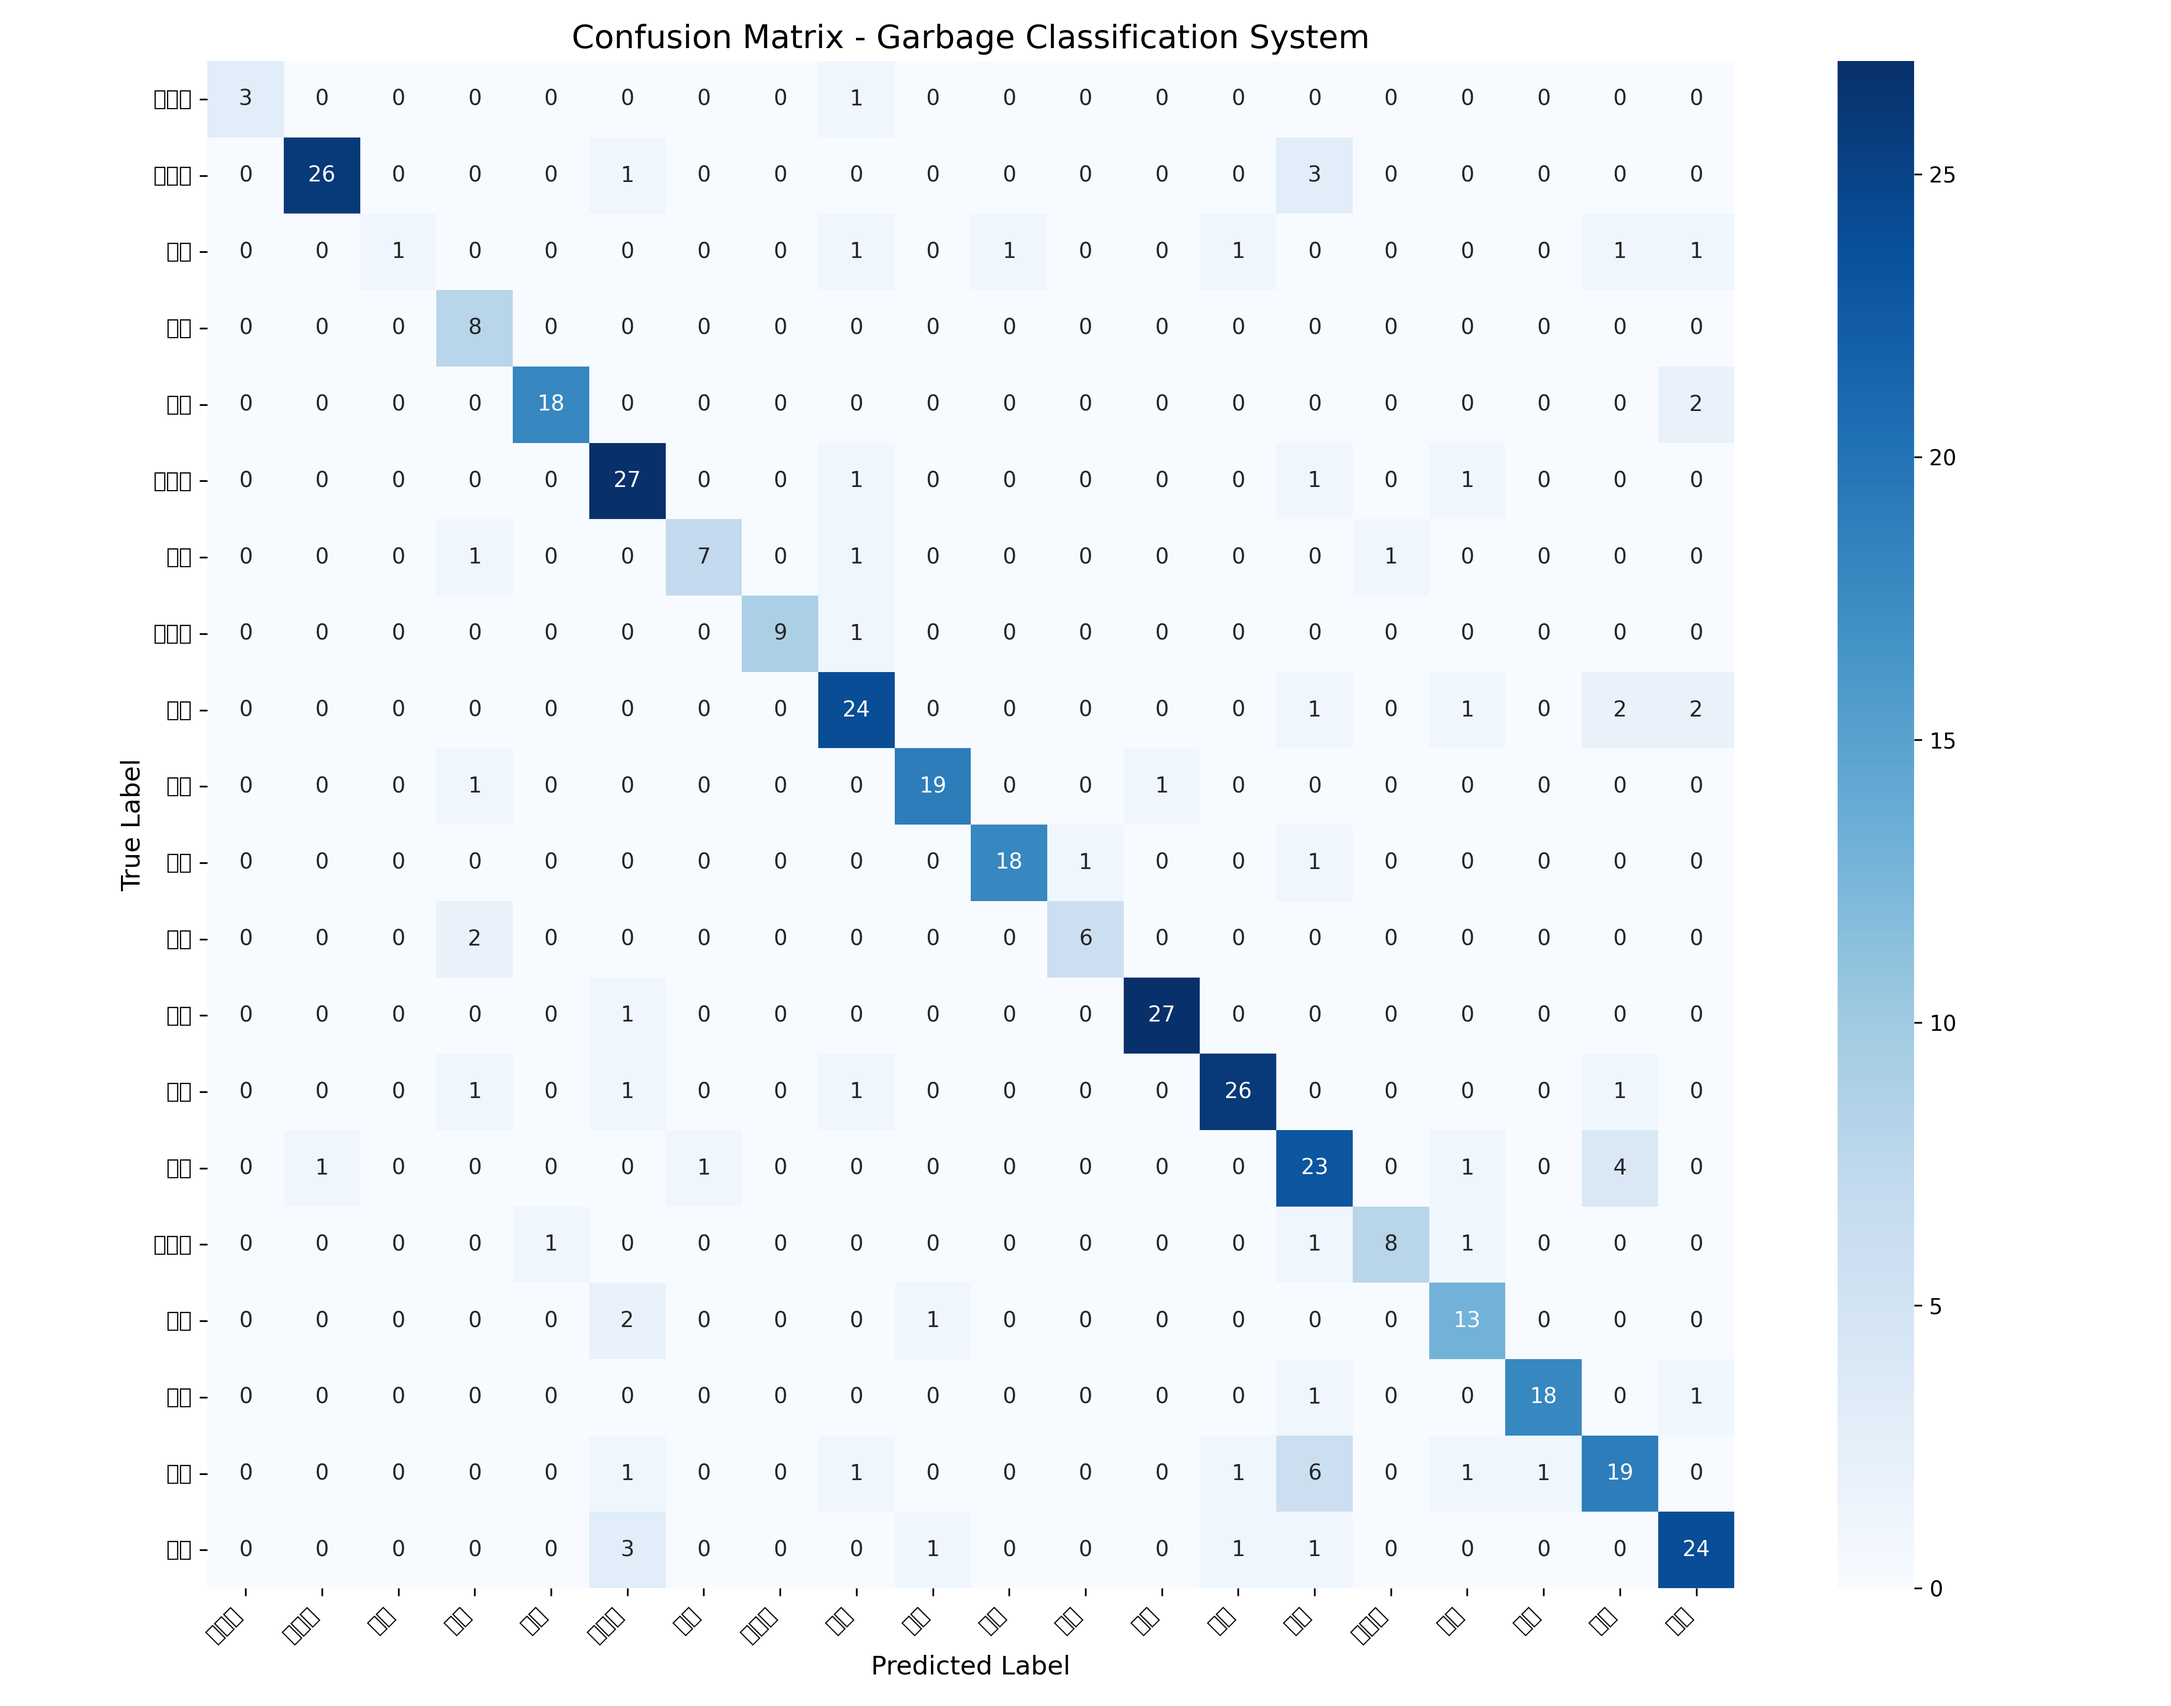
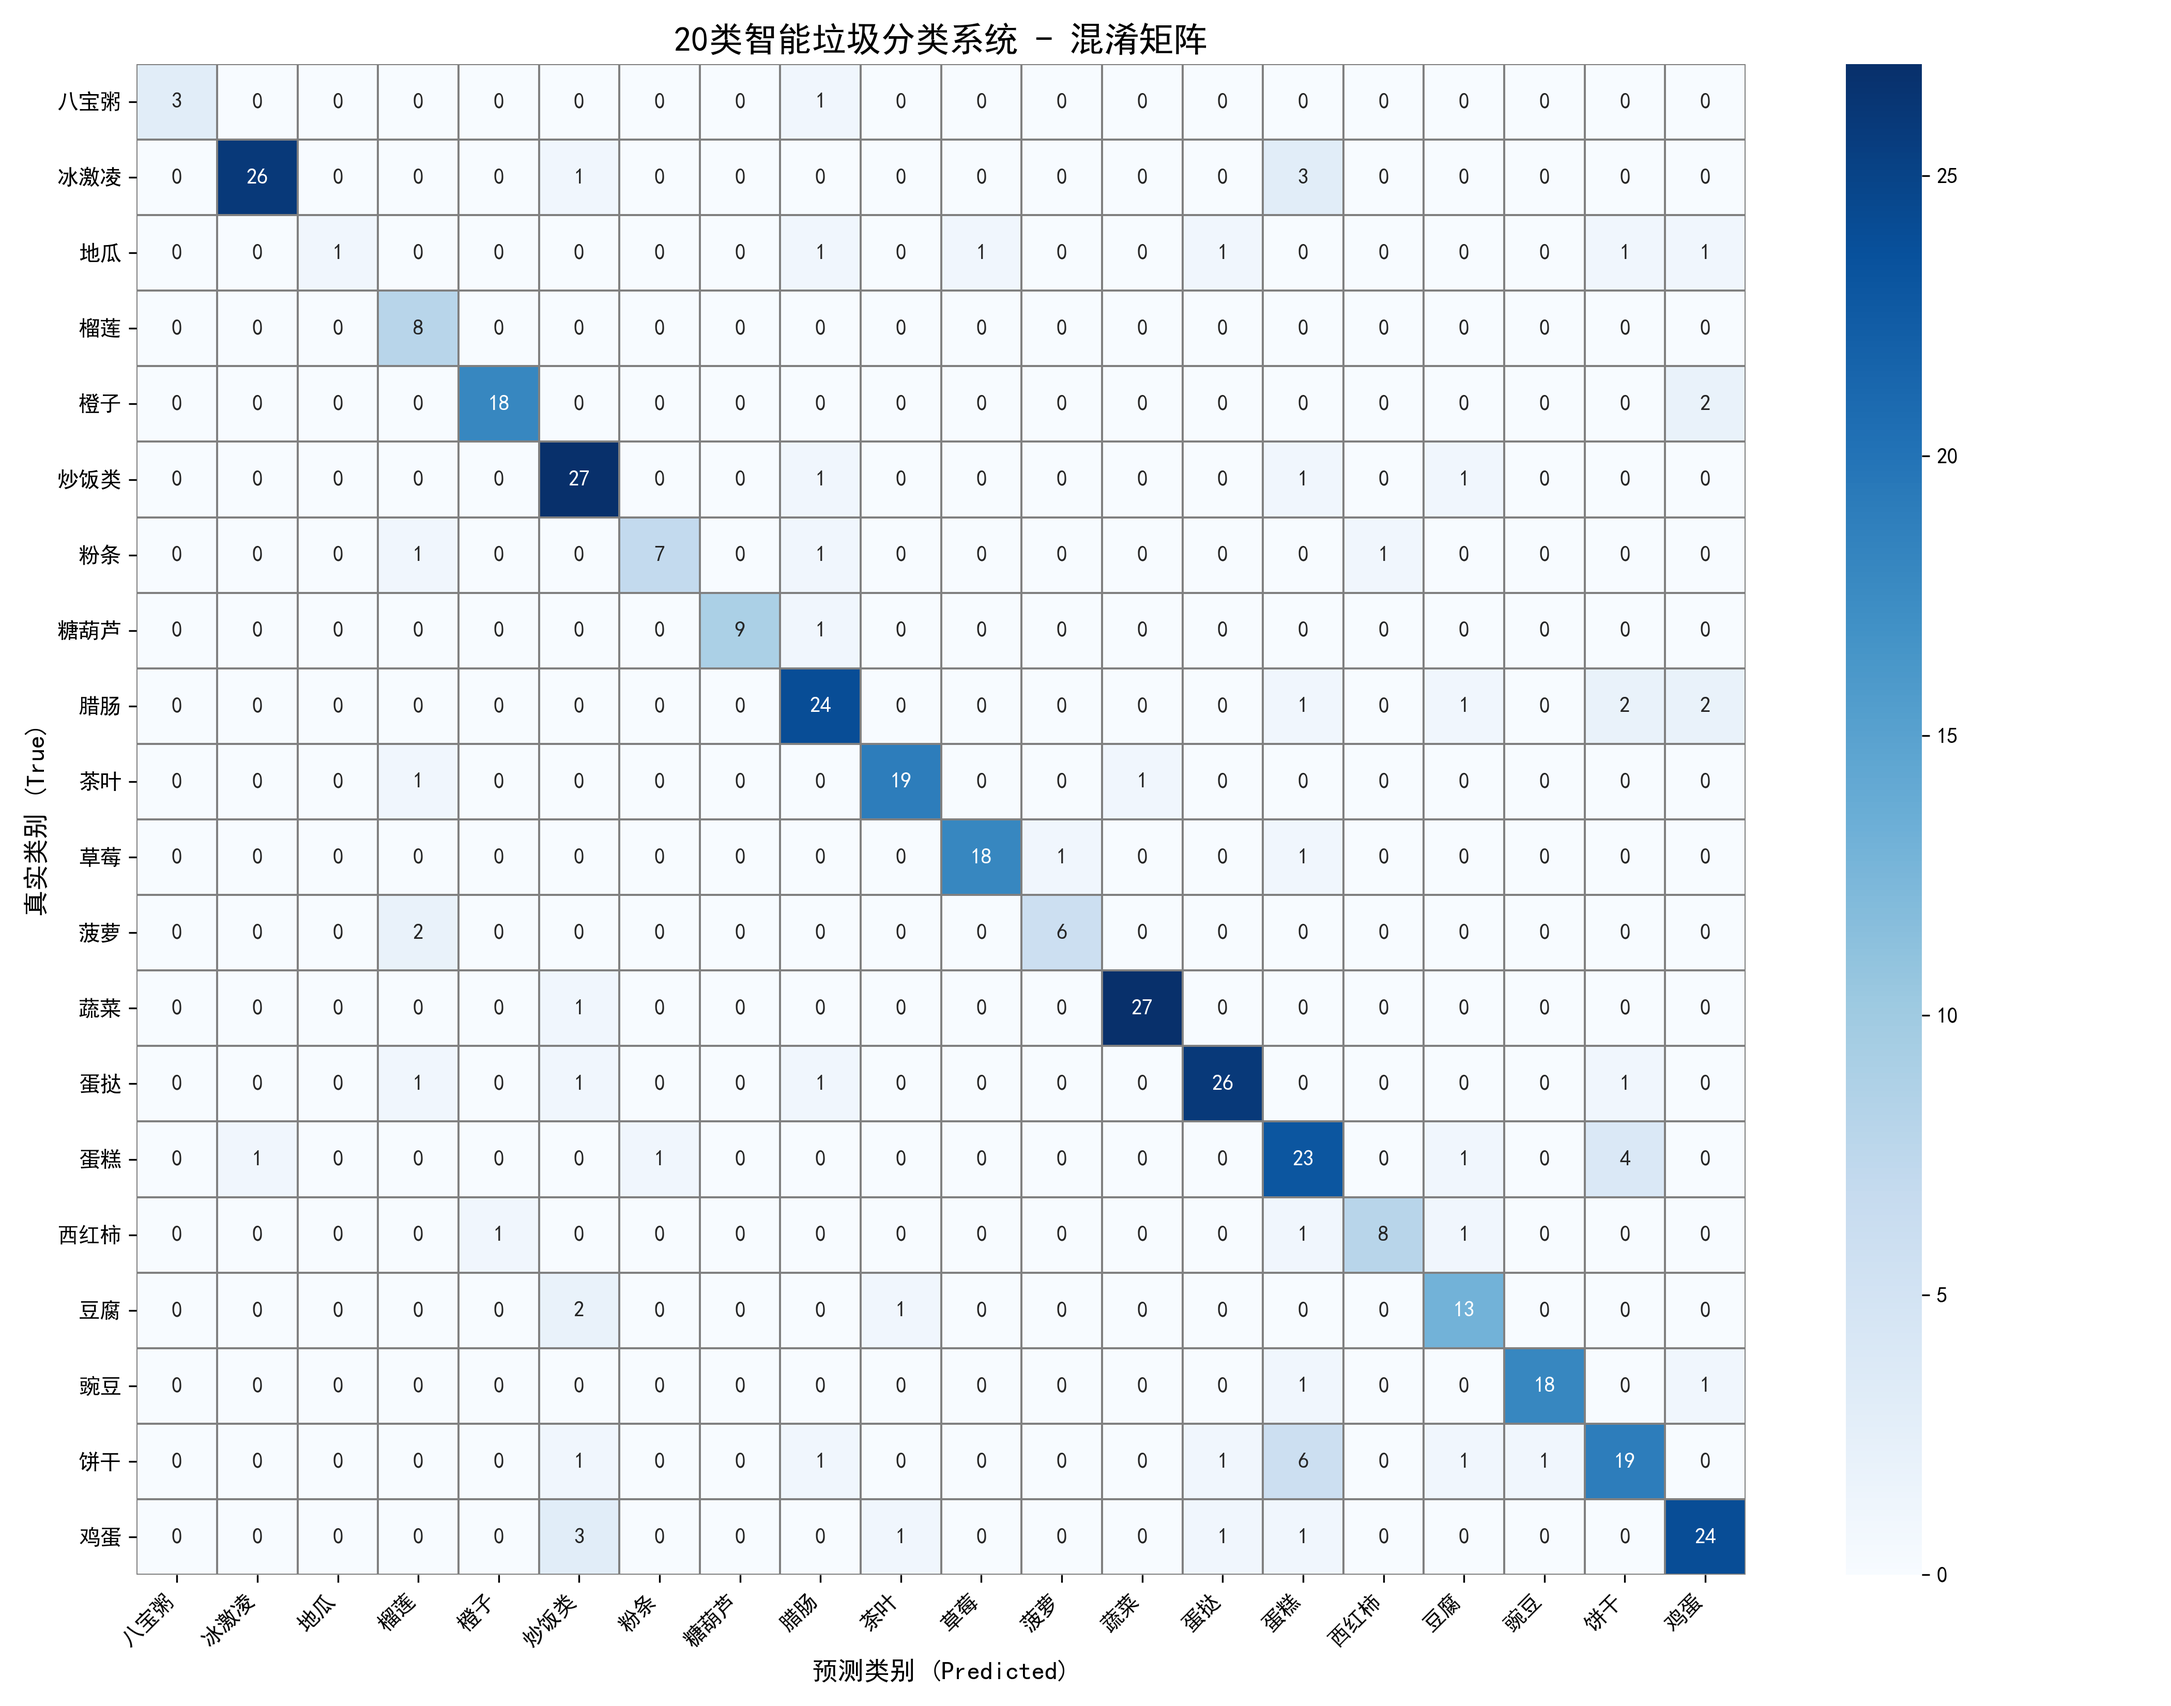
solve the font

diff --git a/evaluate.py b/evaluate.py
@@ -11,71 +11,71 @@ from torchvision import datasets, transforms
 from torch.utils.data import DataLoader
 from src.model import GarbageClassifier
 
-# 解决中文显示问题（如果你的类别是中文名，请取消下面两行的注释）
-# plt.rcParams['font.sans-serif'] = ['SimHei'] 
-# plt.rcParams['axes.unicode_minus'] = False
+# ==========================================
+# 1. 解决中文显示问题 (防止图片出现方块)
+# ==========================================
+plt.rcParams['font.sans-serif'] = ['SimHei']  # Windows使用黑体
+plt.rcParams['axes.unicode_minus'] = False     # 解决负号显示问题
 
 def evaluate():
     # --- 1. 环境与配置加载 ---
-    # 获取项目根目录，确保路径正确
     base_dir = os.path.dirname(os.path.abspath(__file__))
     config_path = os.path.join(base_dir, "configs", "config.yaml")
     docs_dir = os.path.join(base_dir, "docs")
     
+    # 自动创建 docs 文件夹用于存放实验结果
     if not os.path.exists(docs_dir):
         os.makedirs(docs_dir)
 
-    # 加载配置，显式指定 utf-8 编码
+    # 加载配置 (显式指定 utf-8 解决编码报错)
     with open(config_path, "r", encoding="utf-8") as f:
         config = yaml.safe_load(f)
     
     device = torch.device("cuda" if torch.cuda.is_available() else "cpu")
-    print(f"🚀 评估启动 | 使用设备: {device}")
+    print(f"🚀 启动评估 | 使用设备: {device}")
 
-    # --- 2. 测试集数据准备 ---
-    # 保持与训练时一致的预处理方案
+    # --- 2. 测试集准备 (对应 224 分辨率) ---
     test_transform = transforms.Compose([
-        transforms.Resize((config.get('image_size', 224), config.get('image_size', 224))),
+        transforms.Resize((config.get('image_size', 336), config.get('image_size', 336))),
         transforms.ToTensor(),
         transforms.Normalize(mean=[0.485, 0.456, 0.406], std=[0.229, 0.224, 0.225])
     ])
 
-    # 路径指向 data/test
     test_dir = os.path.join(base_dir, "data", "test")
     if not os.path.exists(test_dir):
-        print(f"❌ 错误: 找不到测试集目录 {test_dir}")
+        print(f"❌ 错误: 找不到测试集目录 {test_dir}，请先运行数据拆分脚本。")
         return
 
     test_dataset = datasets.ImageFolder(root=test_dir, transform=test_transform)
     test_loader = DataLoader(
         test_dataset, 
-        batch_size=config.get('batch_size', 64), 
+        batch_size=config.get('batch_size', 32), 
         shuffle=False, 
-        num_workers=8
+        num_workers=4
     )
     
     class_names = test_dataset.classes
     num_classes = len(class_names)
-    print(f"📊 待评估类别数: {num_classes}")
+    print(f"📊 测试集加载成功: 共 {num_classes} 个类别")
 
-    # --- 3. 加载训练好的模型 ---
+    # --- 3. 加载训练好的最优模型 ---
     model = GarbageClassifier(num_classes=num_classes).to(device)
     model_path = os.path.join(base_dir, "checkpoints", "garbage_classifier_best.pth")
     
     if not os.path.exists(model_path):
-        print(f"❌ 错误: 权重文件不存在 -> {model_path}")
+        print(f"❌ 错误: 未在 {model_path} 发现训练好的权重文件。")
         return
 
-    # 加载权重
+    # 加载权重到当前设备
     model.load_state_dict(torch.load(model_path, map_location=device))
     model.eval()
 
-    # --- 4. 执行推理获取预测结果 ---
+    # --- 4. 批量推理 ---
     all_preds = []
     all_labels = []
 
     with torch.no_grad():
-        for images, labels in tqdm(test_loader, desc="推理中"):
+        for images, labels in tqdm(test_loader, desc="正在对测试集进行考核"):
             images = images.to(device)
             outputs = model(images)
             _, preds = torch.max(outputs, 1)
@@ -83,48 +83,49 @@ def evaluate():
             all_preds.extend(preds.cpu().numpy())
             all_labels.extend(labels.numpy())
 
-    # --- 5. 计算并打印分类报告 ---
-    print("\n" + "="*30)
-    print("📈 性能指标报告")
-    print("="*30)
+    # --- 5. 生成指标报告 (Text Report) ---
+    print("\n" + "="*40)
+    print("📋 实验性能指标明细")
+    print("="*40)
+    # digits=4 提高精度显示
     report = classification_report(all_labels, all_preds, target_names=class_names, digits=4)
     print(report)
     
-    # 保存文本报告到 docs
+    # 将文本报告保存至 docs 文件夹
     report_save_path = os.path.join(docs_dir, "evaluation_report.txt")
     with open(report_save_path, "w", encoding="utf-8") as f:
         f.write(report)
 
-    # --- 6. 绘制混淆矩阵热图 ---
+    # --- 6. 绘制并保存混淆矩阵 (Confusion Matrix) ---
     cm = confusion_matrix(all_labels, all_preds)
-    plt.figure(figsize=(14, 11)) # 20类建议画布稍大一点
+    plt.figure(figsize=(14, 11)) # 针对20类设置较大画布
     
     sns.heatmap(
         cm, 
-        annot=True, 
+        annot=True, # 显示具体数值
         fmt='d', 
         cmap='Blues', 
         xticklabels=class_names, 
         yticklabels=class_names,
-        cbar=True,
-        square=True
+        linewidths=0.5,
+        linecolor='gray'
     )
     
-    plt.xlabel('Predicted Label', fontsize=12)
-    plt.ylabel('True Label', fontsize=12)
-    plt.title('Confusion Matrix - Garbage Classification System', fontsize=15)
+    plt.xlabel('预测类别 (Predicted)', fontsize=12)
+    plt.ylabel('真实类别 (True)', fontsize=12)
+    plt.title('20类智能垃圾分类系统 - 混淆矩阵', fontsize=16)
     plt.xticks(rotation=45, ha='right')
     plt.yticks(rotation=0)
     plt.tight_layout()
     
-    # 保存图片到 docs
+    # 保存图片到 docs，设置 300 DPI 保证插入 Word 时高清
     cm_save_path = os.path.join(docs_dir, "confusion_matrix.png")
-    plt.savefig(cm_save_path, dpi=300) # 提高清晰度
-    print(f"\n✅ 评估结果已成功保存至 docs 文件夹：")
-    print(f"1. 详细报告: {report_save_path}")
-    print(f"2. 可视化图: {cm_save_path}")
+    plt.savefig(cm_save_path, dpi=300)
     
-    # 显示图像
+    print(f"\n✅ 评估完成！结果已存入项目 docs/ 文件夹：")
+    print(f"1. 详细文本报告: docs/evaluation_report.txt")
+    print(f"2. 混淆矩阵高清图: docs/confusion_matrix.png")
+    
     plt.show()
 
 if __name__ == "__main__":
